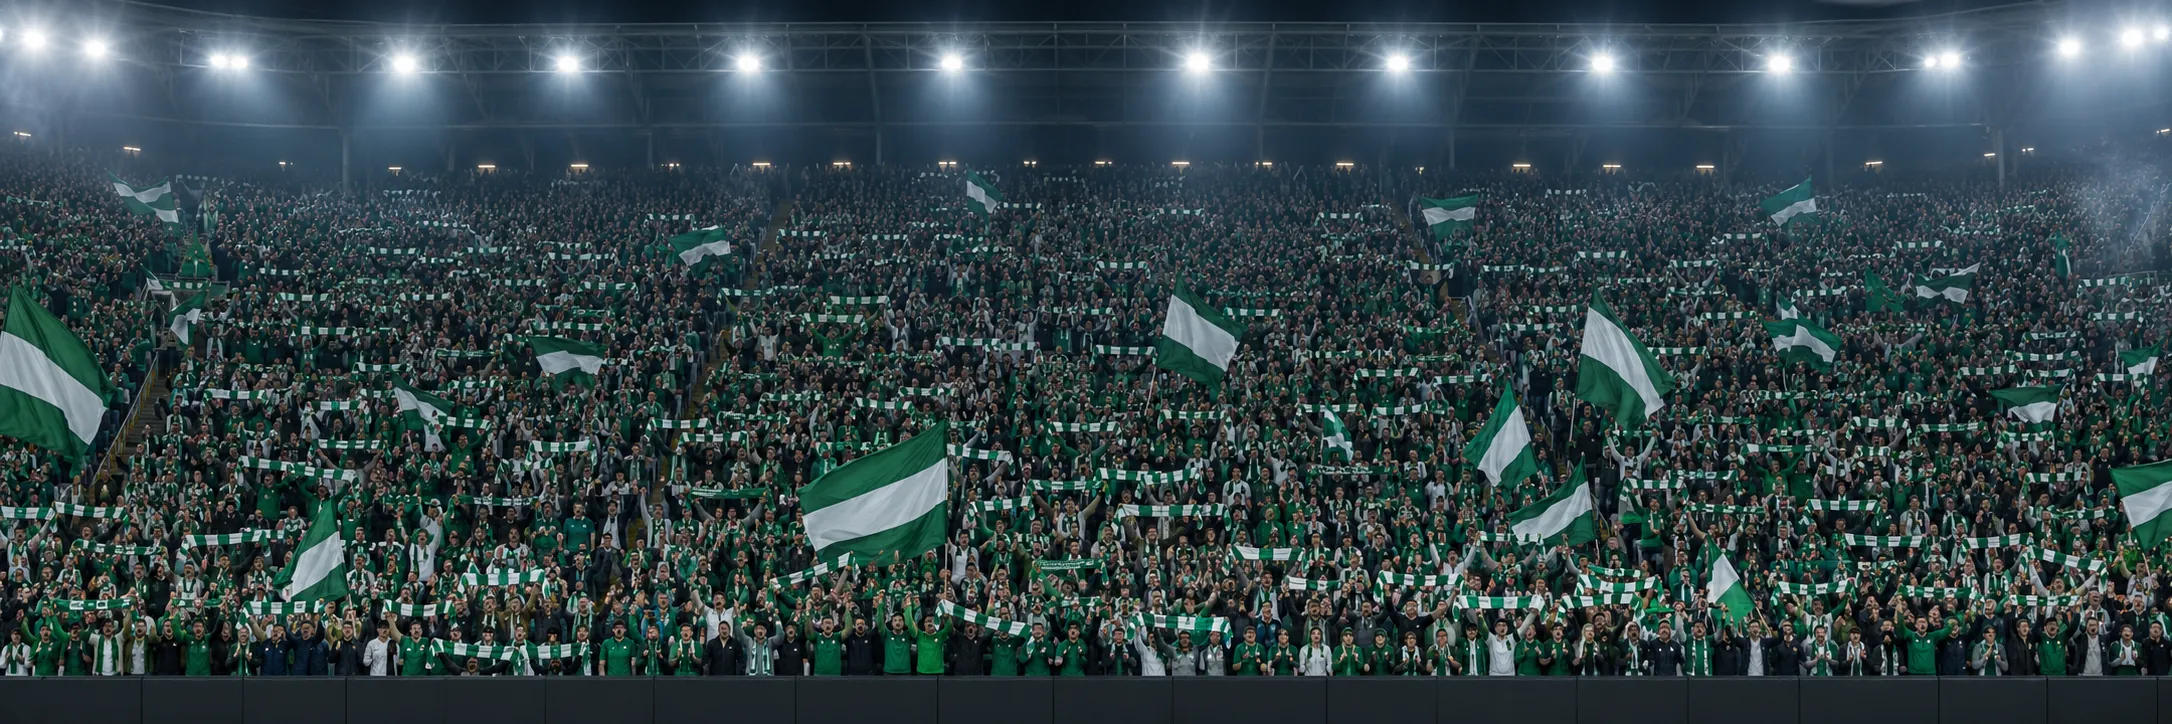
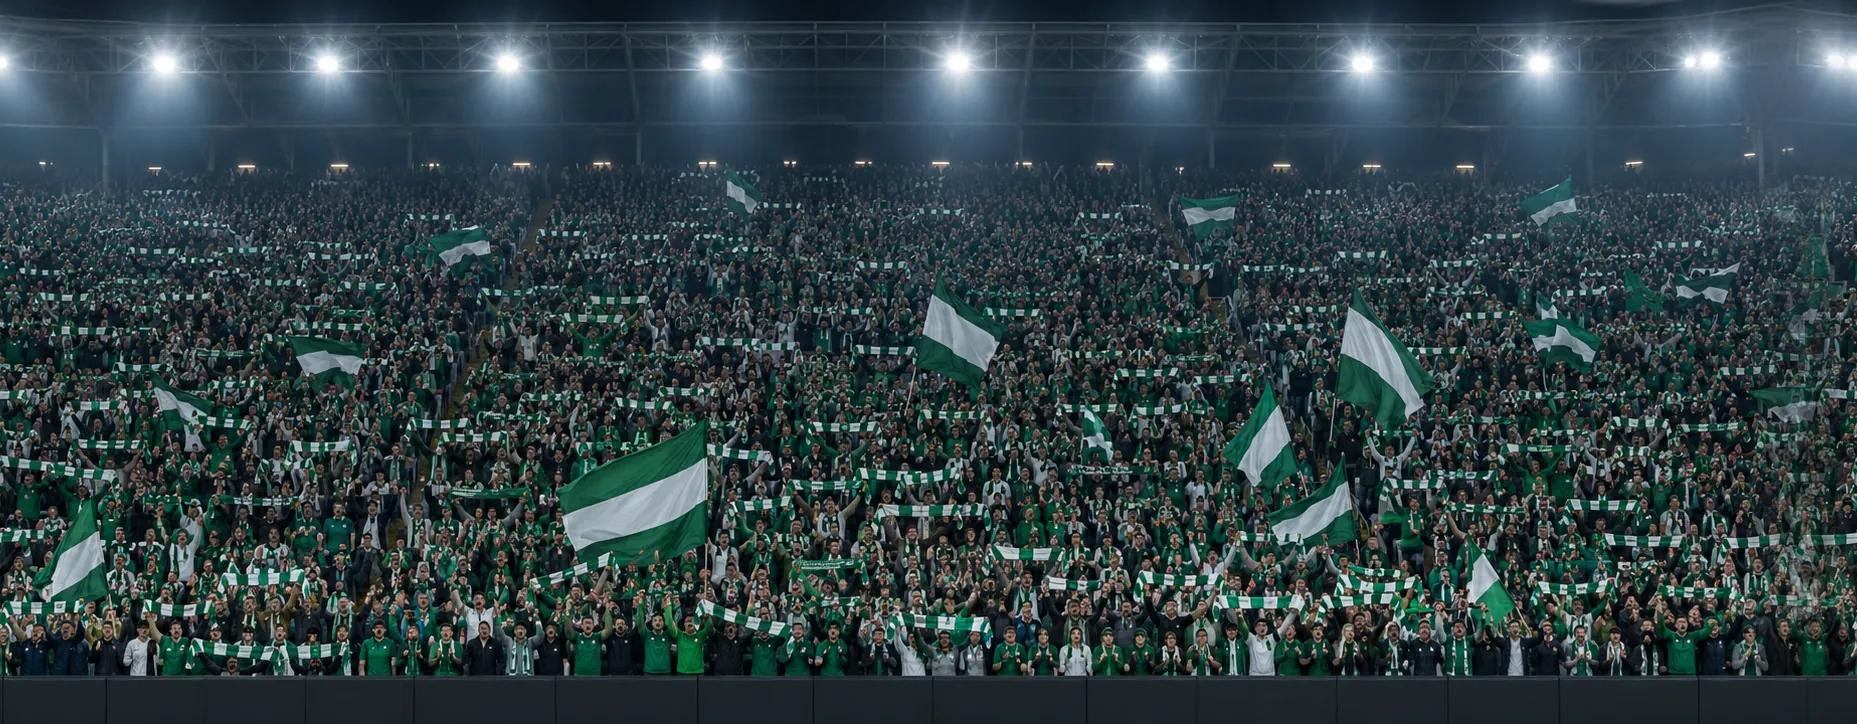
fix(free-kick-3d): seamless stands panorama, no mirrored double flag
Trim the flags cut by the picture's edges, crossfade its ends and tile it
plainly instead of mirroring at the seams.

diff --git a/frontend/src/components/freeKick3d/Stadium.tsx b/frontend/src/components/freeKick3d/Stadium.tsx
@@ -87,7 +87,8 @@ function Pitch({ quality }: { quality: Quality }) {
 /** The stands: an arc of a cylinder around the goal end, seen from the
  * inside, papered with the crowd panorama. Stretched once over the arc the
  * people would come out three times life size, so the picture is laid
- * three times, mirrored at the seams (invisible in a crowd). Its dark
+ * three times (stands.webp is cut to tile seamlessly: the flags at its
+ * edges trimmed, the ends crossfaded). Its dark
  * board line at the bottom sits just below the pitch. */
 const BACKDROP_RADIUS = 82;
 const BACKDROP_ARC = (150 / 180) * Math.PI;
@@ -98,7 +99,7 @@ function Backdrop() {
   const tex = useTexture(ASSETS.stands, (t) => {
     const tex = t as THREE.Texture;
     // Seen from inside the cylinder the u axis runs right → left: mirror it.
-    tex.wrapS = THREE.MirroredRepeatWrapping;
+    tex.wrapS = THREE.RepeatWrapping;
     tex.repeat.x = -BACKDROP_TILES;
     tex.anisotropy = 4;
     tex.colorSpace = THREE.SRGBColorSpace;
